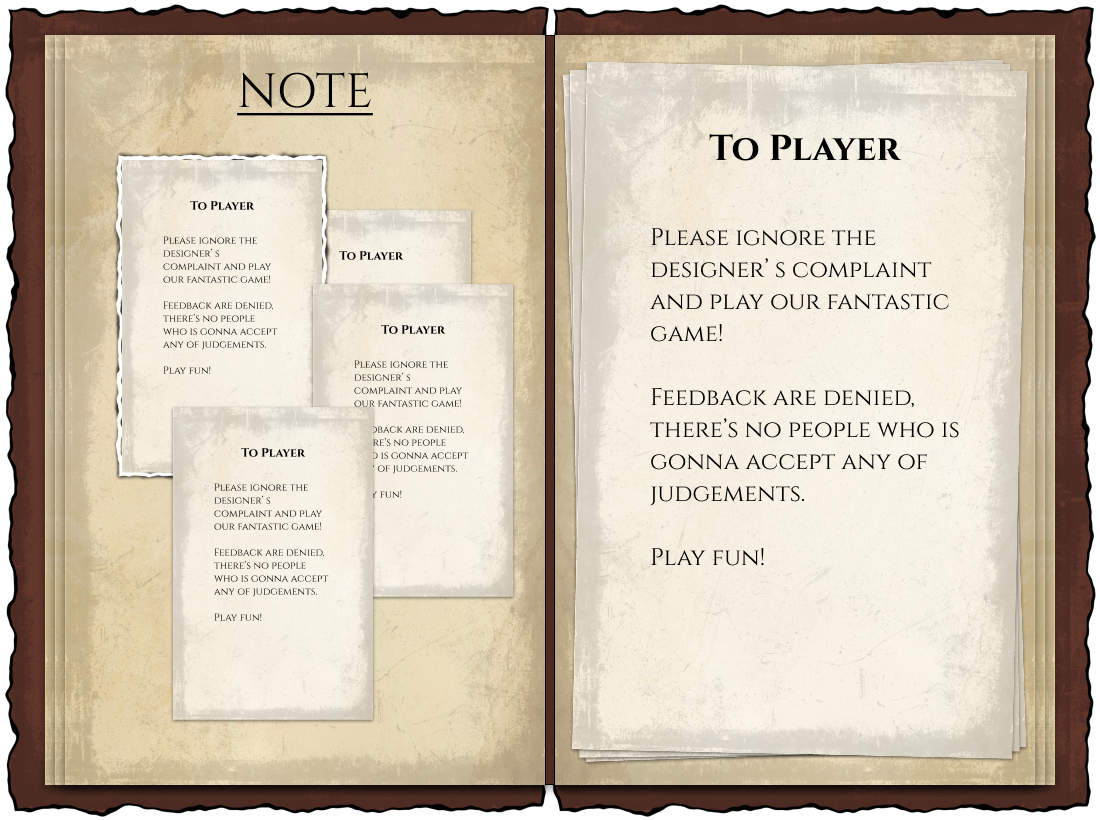
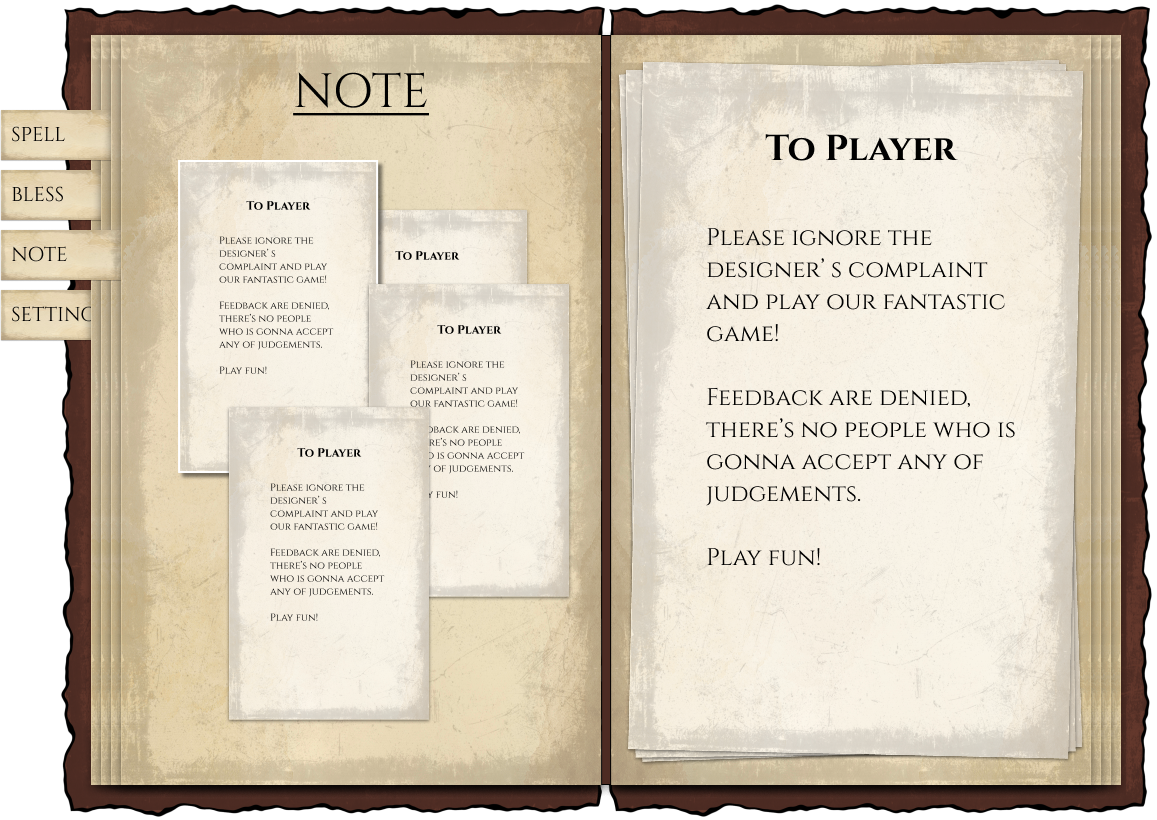
adding change to 410 & 499

Changed region(s): [[0.0, 0.0, 0.9582, 1.0], [0.8964, 0.0, 1.0, 0.9756], [0.6491, 0.1524, 0.8345, 0.2134]]

diff --git a/witch's-winter.html b/witch's-winter.html
@@ -365,7 +365,7 @@
 
                                 <div class="wipCarousel-track">
                                     <figure class="wipCard">
-                                        <img src="img/410/firespellPage.png" alt="Spells panel" width="1100" height="820">
+                                        <img src="img/410/firespellPage.png" alt="Spells panel" width="1157" height="820">
                                         <figcaption>
                                             <span class="lang-en">Spells Page - Fire</span>
                                             <span class="lang-zh">法术页面 - 火焰</irespan>
@@ -373,7 +373,7 @@
                                     </figure>
 
                                     <figure class="wipCard">
-                                        <img src="img/410/dashPage.png" alt="Bless panel - Dash" width="1100" height="820">
+                                        <img src="img/410/dashPage.png" alt="Bless panel - Dash" width="1157" height="820">
                                         <figcaption>
                                             <span class="lang-en">Bless Page - Dash</span>
                                             <span class="lang-zh">祝福页面 - 冲刺</span>
@@ -381,7 +381,7 @@
                                     </figure>
 
                                     <figure class="wipCard">
-                                        <img src="img/410/double-jumpPage.png" alt="Bless panel - Double Jump" width="1100" height="820">
+                                        <img src="img/410/double-jumpPage.png" alt="Bless panel - Double Jump" width="1157" height="820">
                                         <figcaption>
                                             <span class="lang-en">Bless Page - Double Jump</span>
                                             <span class="lang-zh">祝福页面 - 二段跳</span>
@@ -389,7 +389,7 @@
                                     </figure>
 
                                     <figure class="wipCard">
-                                        <img src="img/410/necklacePage.png" alt="Bless panel - Necklace" width="1100" height="820">
+                                        <img src="img/410/necklacePage.png" alt="Bless panel - Necklace" width="1157" height="820">
                                         <figcaption>
                                             <span class="lang-en">Bless Page - Necklace</span>
                                             <span class="lang-zh">祝福页面 - 项链</span>
@@ -397,7 +397,7 @@
                                     </figure>
 
                                     <figure class="wipCard">
-                                        <img src="img/410/ringPage.png" alt="Bless panel - Ring" width="1100" height="820">
+                                        <img src="img/410/ringPage.png" alt="Bless panel - Ring" width="1157" height="820">
                                         <figcaption>
                                             <span class="lang-en">Bless Page - Ring</span>
                                             <span class="lang-zh">祝福页面 - 戒指</span>
@@ -444,6 +444,28 @@
                             </div>
                         </div>
                     </div>
+                    <p>
+                        <span class="lang-en">
+                            The overall interface uses a magic-book metaphor as its visual container, transforming the menu system into a more narrative-driven and immersive interaction. This allows players to remain connected to the fantasy atmosphere of <em>Witch's Winter</em> even while browsing functional content. The focus of this design is to create a unified framework in which system information, interaction logic, and visual presentation work together as a consistent experience, improving the menu's overall readability, organization, and sense of immersion.
+                        </span>
+                        <span class="lang-zh">
+                            整体界面以“魔法书”作为视觉载体，将菜单系统转化为一种更具叙事感和沉浸感的交互形式，使玩家在浏览功能时依然保持与《冬境魔女》奇幻氛围的一致连接。这个设计的关注的点是通过统一的框架，让系统信息、操作逻辑与美术表现形成一致的体验，提升菜单在可读性、组织性与沉浸感上的整体完成度。
+                        </span>
+                    </p>
+                    <ul>
+                        <li>
+                            <span class="lang-en">In terms of information architecture, I organized the content into four core modules — Spell, Bless, Note, and Setting — corresponding to ability recognition, progression feedback, narrative supplement, and control management. The goal was to help players understand available content more intuitively and quickly locate the information they need.</span>
+                            <span class="lang-zh">在信息架构上，我将内容整合为 Spell、Bless、Note 与 Setting 四个核心模块，分别对应能力认知、成长反馈、文本补充与操作管理，目的是让玩家能够用更直观的方式理解当前可用内容，并快速定位自己需要的信息。</span>
+                        </li>
+                        <li>
+                            <span class="lang-en">The layout adopts a hierarchical structure with category navigation on the left, an overview list in the center, and detailed content on the right. This structure first helps players build an overall understanding, then gradually focus on specific information, reducing reading pressure and improving information retrieval efficiency.</span>
+                            <span class="lang-zh">版式上采用左侧分类导航、中部列表概览、右侧详情展示的层级结构，先帮助玩家建立整体认知，再逐步聚焦具体内容，从而降低阅读压力并提升信息检索效率。</span>
+                        </li>
+                        <li>
+                            <span class="lang-en">At the same time, the consistent use of paper textures, vintage typography, pixel illustrations, and a page-turning layout reinforces the visual coherence of the menu system as a whole.</span>
+                            <span class="lang-zh">与此同时，统一的纸张材质、复古字体、像素插图与翻页式布局，共同强化了菜单在视觉语言上的整体性。</span>
+                        </li>
+                    </ul>
                 </div>
 
             </section>

diff --git a/css/project.css b/css/project.css
@@ -215,6 +215,7 @@ p {
   font-size: 1.15rem;
   margin-bottom: 2rem;
   font-weight: lighter;
+  max-width: 67.5rem;
 }
 
 .overview p {
@@ -376,6 +377,7 @@ ul {
   margin-left: 1rem;
   margin-bottom: 2rem;
   list-style-type: square;
+  max-width: 67.5rem;
 }
 
 .insideImg {
@@ -615,6 +617,7 @@ body.lightbox-open {
 
 .wipCarousel {
   position: relative;
+  margin-bottom: 2rem;
 }
 
 .wipCarousel-viewport {
@@ -656,7 +659,7 @@ body.lightbox-open {
 }
 
 .wipCard img {
-  aspect-ratio: 1100 / 820;
+  aspect-ratio: 1157 / 820;
   object-fit: cover;
   box-shadow: 0 18px 50px rgba(0, 0, 0, 0.22);
 }

diff --git a/js/wip-gallery.js b/js/wip-gallery.js
@@ -11,7 +11,7 @@
   if (!viewport || !track || cards.length < 2) return;
 
   const BREAKPOINT_COMPACT = "(max-width: 53.125rem)";
-  const CARD_RATIO = 820 / 1100;
+  const CARD_RATIO = 820 / 1157;
   const PREVIEW_SCALE = 0.5;
   const TRANSITION_MS = 520;
   const WHEEL_LOCK_MS = 360;
